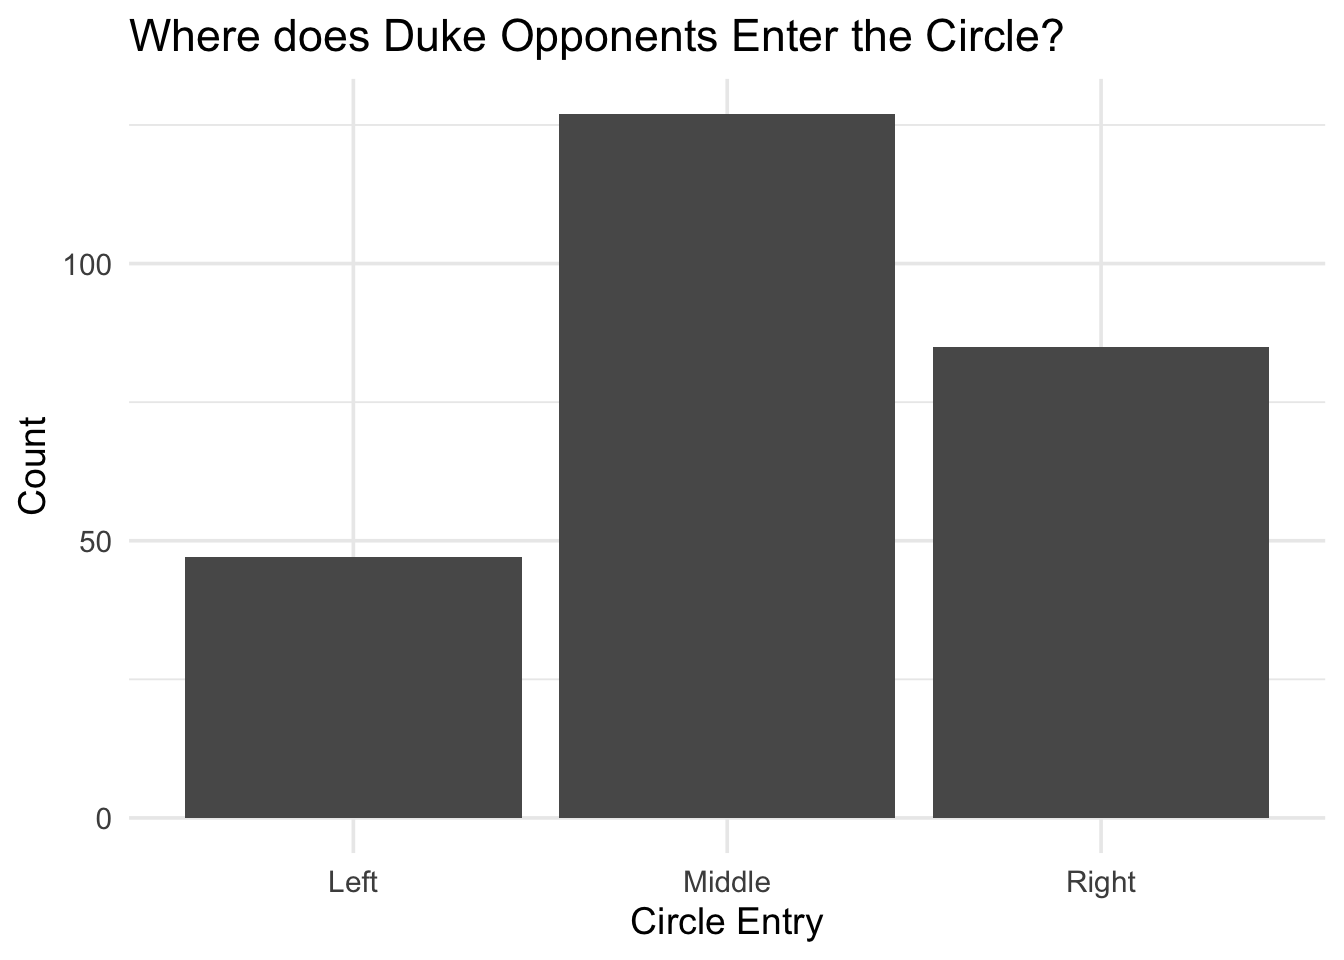
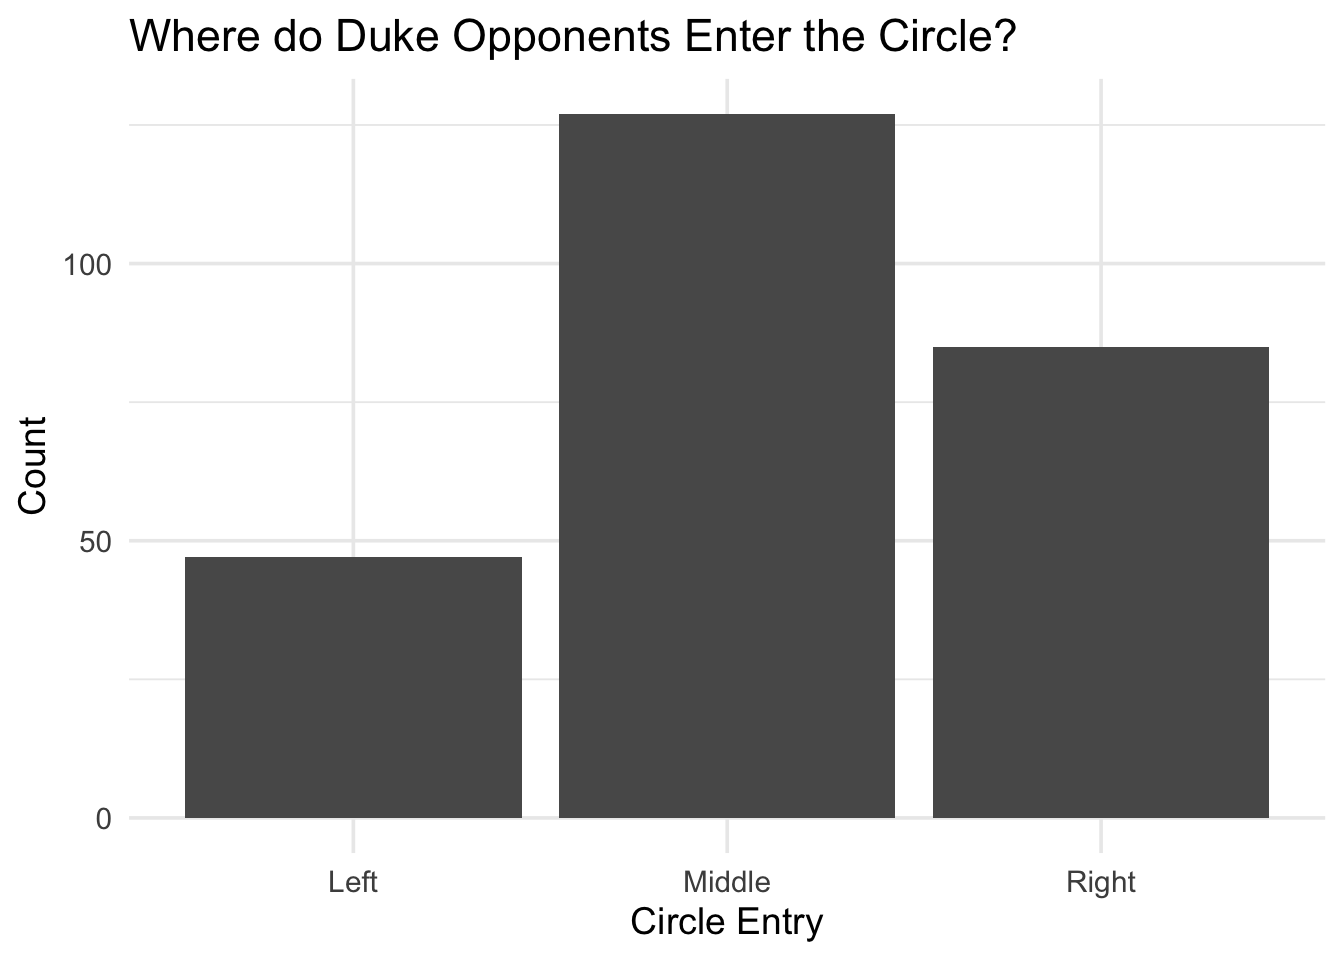
updating

Changed region(s): [[0.2188, 0.0, 0.7812, 0.0625]]

diff --git a/docs/ExternalProj/Duke/Duke2022SeasonRecap.html b/docs/ExternalProj/Duke/Duke2022SeasonRecap.html
@@ -34,7 +34,6 @@ ul.task-list li input[type="checkbox"] {
 <script src="Duke2022SeasonRecap_files/libs/bootstrap/bootstrap.min.js"></script>
 <link href="Duke2022SeasonRecap_files/libs/bootstrap/bootstrap-icons.css" rel="stylesheet">
 <link href="Duke2022SeasonRecap_files/libs/bootstrap/bootstrap.min.css" rel="stylesheet" id="quarto-bootstrap" data-mode="light">
-<style>html{ scroll-behavior: smooth; }</style>
 
 
 </head>
@@ -44,10 +43,12 @@ ul.task-list li input[type="checkbox"] {
 <div id="quarto-content" class="page-columns page-rows-contents page-layout-article">
 <div id="quarto-margin-sidebar" class="sidebar margin-sidebar">
   <nav id="TOC" role="doc-toc" class="toc-active">
-    <h2 id="toc-title">Contents</h2>
+    <h2 id="toc-title">Table of contents</h2>
    
   <ul>
-  <li><a href="#overview" id="toc-overview" class="nav-link active" data-scroll-target="#overview">Overview</a></li>
+  <li><a href="#general-analysis-of-duke-field-hockeys-2022-season" id="toc-general-analysis-of-duke-field-hockeys-2022-season" class="nav-link active" data-scroll-target="#general-analysis-of-duke-field-hockeys-2022-season">General Analysis of Duke Field Hockey’s 2022 Season</a>
+  <ul class="collapse">
+  <li><a href="#overview" id="toc-overview" class="nav-link" data-scroll-target="#overview">Overview</a></li>
   <li><a href="#circle-entry" id="toc-circle-entry" class="nav-link" data-scroll-target="#circle-entry">Circle Entry</a>
   <ul class="collapse">
   <li><a href="#which-teams-beat-duke-in-circle-entries" id="toc-which-teams-beat-duke-in-circle-entries" class="nav-link" data-scroll-target="#which-teams-beat-duke-in-circle-entries">Which Teams Beat Duke in Circle Entries?</a></li>
@@ -60,6 +61,12 @@ ul.task-list li input[type="checkbox"] {
   <li><a href="#ball-startball-win" id="toc-ball-startball-win" class="nav-link" data-scroll-target="#ball-startball-win">Ball Start/Ball Win</a></li>
   <li><a href="#offensive-goals" id="toc-offensive-goals" class="nav-link" data-scroll-target="#offensive-goals">Offensive Goals</a></li>
   <li><a href="#defensive-goals" id="toc-defensive-goals" class="nav-link" data-scroll-target="#defensive-goals">Defensive Goals</a></li>
+  </ul></li>
+  <li><a href="#penalty-corners" id="toc-penalty-corners" class="nav-link" data-scroll-target="#penalty-corners">Penalty Corners</a>
+  <ul class="collapse">
+  <li><a href="#attack-penalty-corners" id="toc-attack-penalty-corners" class="nav-link" data-scroll-target="#attack-penalty-corners">Attack Penalty Corners</a></li>
+  <li><a href="#how-do-we-score-goals" id="toc-how-do-we-score-goals" class="nav-link" data-scroll-target="#how-do-we-score-goals">How do We Score Goals?</a></li>
+  </ul></li>
   </ul>
 </nav>
 </div>
@@ -88,6 +95,8 @@ ul.task-list li input[type="checkbox"] {
 
 </header>
 
+<section id="general-analysis-of-duke-field-hockeys-2022-season" class="level1">
+<h1>General Analysis of Duke Field Hockey’s 2022 Season</h1>
 <section id="overview" class="level2">
 <h2 class="anchored" data-anchor-id="overview">Overview</h2>
 <p>Thanks to the vast amounts of data collected over the course of the season, the analytics team was able to combine the data and extract aggregate trends. In total, there are over 37504 recorded plays.</p>
@@ -187,7 +196,7 @@ ul.task-list li input[type="checkbox"] {
 <div class="cell">
 
 </div>
-<p>The distribution is rather similar to Duke’s own distribution. However, opponents do a <strong>better</strong> job forcing us to the left. Duke is forced to the left 25.08 percent of the time, while opponents are forced to the left 18.15 percent of the time. On a better note, Duke entered the circle 64 more times than their opponents across the season.</p>
+<p>The distribution is rather similar to Duke’s own distribution. However, opponents do a <strong>better</strong> job forcing us to the left. Duke is forced to the left <strong>25.08</strong>% of the time, while opponents are forced to the left <strong>18.15</strong>% of the time. On a better note, Duke entered the circle 64 more times than their opponents across the season.</p>
 <section id="which-teams-beat-duke-in-circle-entries" class="level3">
 <h3 class="anchored" data-anchor-id="which-teams-beat-duke-in-circle-entries">Which Teams Beat Duke in Circle Entries?</h3>
 <div class="cell">
@@ -471,6 +480,7 @@ ul.task-list li input[type="checkbox"] {
 </table>
 </div>
 </div>
+<p>Duke scored 24 ACE goals and 18 goals from Penalty Corners.</p>
 <div class="cell">
 <div class="cell-output-display">
 <table class="table table-sm table-striped">
@@ -517,7 +527,7 @@ ul.task-list li input[type="checkbox"] {
 </section>
 <section id="defensive-goals" class="level2">
 <h2 class="anchored" data-anchor-id="defensive-goals">Defensive Goals</h2>
-<p>This table shows the count of ACE goals vs.&nbsp;goals from Penalty Corners.</p>
+<p>This table shows the count of ACE goals vs.&nbsp;goals from Penalty Corners from our opponents.</p>
 <div class="cell">
 <div class="cell-output-display">
 <table class="table table-sm table-striped">
@@ -541,6 +551,37 @@ ul.task-list li input[type="checkbox"] {
 </table>
 </div>
 </div>
+</section>
+</section>
+<section id="penalty-corners" class="level1">
+<h1>Penalty Corners</h1>
+<section id="attack-penalty-corners" class="level2">
+<h2 class="anchored" data-anchor-id="attack-penalty-corners">Attack Penalty Corners</h2>
+<div class="cell">
+
+</div>
+<p>Duke had 106 penalty corners throughout the year.</p>
+</section>
+<section id="how-do-we-score-goals" class="level2">
+<h2 class="anchored" data-anchor-id="how-do-we-score-goals">How do We Score Goals?</h2>
+<div class="cell">
+
+</div>
+<p>Out of the 106 penalty corners recorded, there is recorded data for the <code>first phase</code> for only 84 penalty corners. Counts of goals and other metrics may be below the actual number.</p>
+<p>For instance, there were only 12 recorded goals, yet we know that Duke scored more penalty corner goals than this number.</p>
+<div class="cell">
+
+</div>
+<div class="cell">
+<div class="cell-output cell-output-stdout">
+<pre><code>['Single + Trap_1 + Moving + Short_Push + Trap_2']</code></pre>
+</div>
+</div>
+<p>Can we use Routine and Traps to see how Duke scores?</p>
+<div class="cell">
+
+</div>
+</section>
 </section>
 
 </main>
@@ -682,5 +723,4 @@ window.document.addEventListener("DOMContentLoaded", function (event) {
 
 
 
-<script src="Duke2022SeasonRecap_files/libs/quarto-html/zenscroll-min.js"></script>
 </body></html>